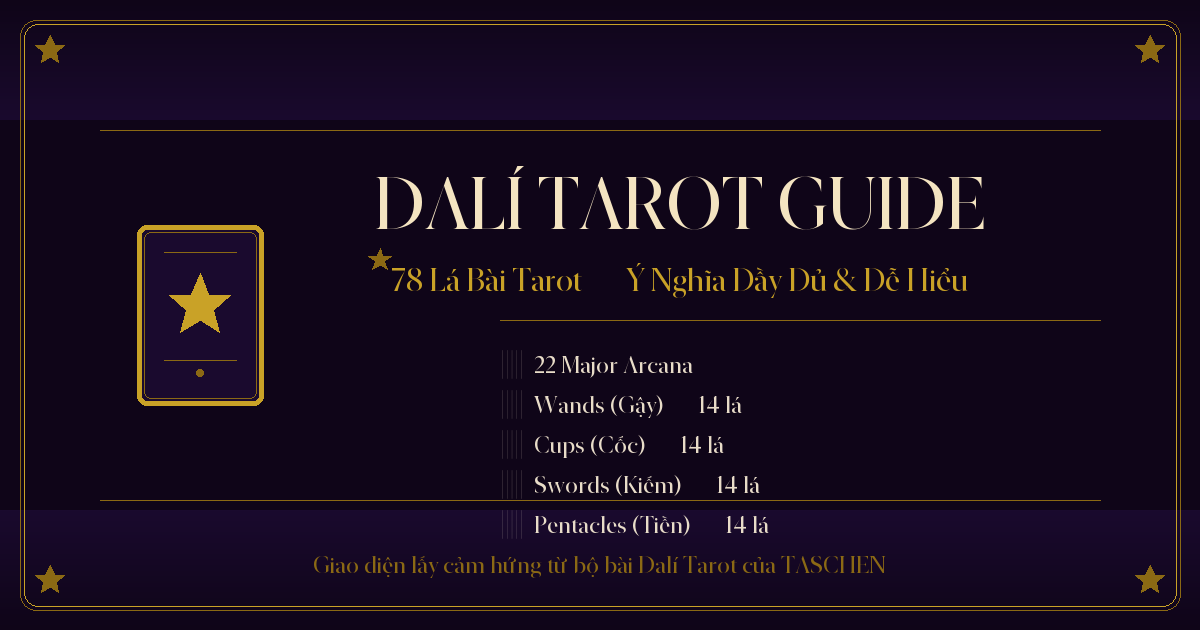
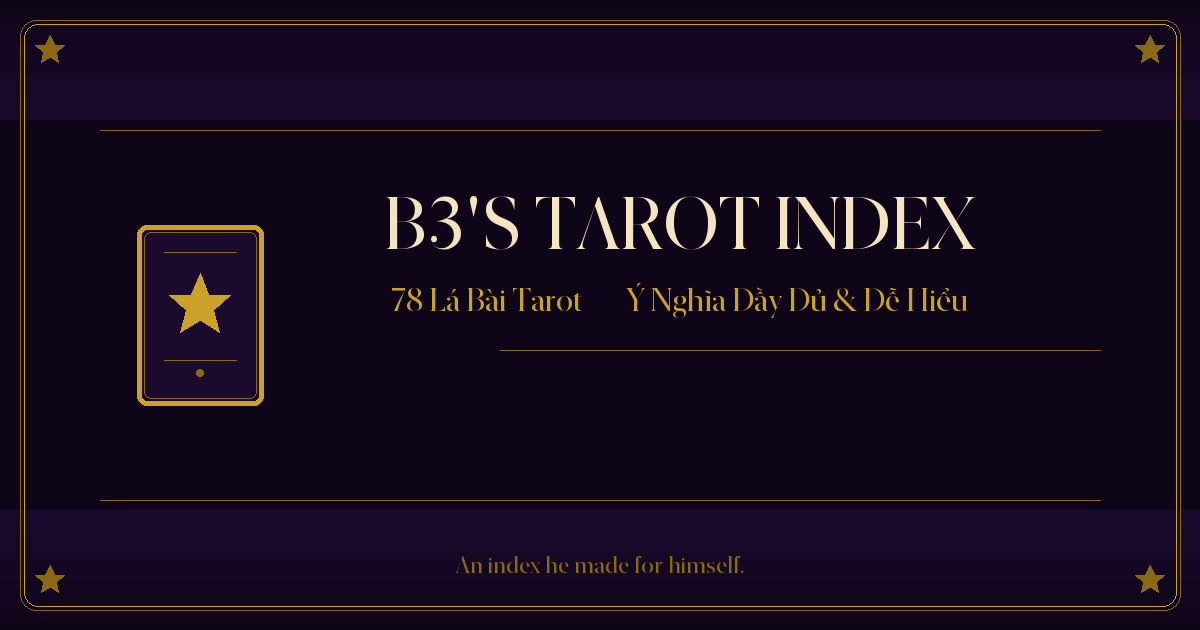
feat: rename app to B3's Tarot Index, clean up OG image
- Rename Dalí Tarot Guide → B3's Tarot Index everywhere (title, meta, headers, footer, structured data)
- Footer: B3's Tarot Index — An index he made for himself.
- Regenerate OG image without suit list, new branding
- All Tarot spellings verified correct (Tarot, not Tarrot)

diff --git a/index.html b/index.html
@@ -3,34 +3,34 @@
 <head>
 <meta charset="UTF-8">
 <meta name="viewport" content="width=device-width, initial-scale=1.0">
-<title>Tarot Card Meanings - 78 Lá Bài Tarot | Dalí Tarot Guide</title>
+<title>B3's Tarot Index - 78 Lá Bài Tarot</title>
 <meta name="description" content="Tra cứu ý nghĩa 78 lá bài Tarot đầy đủ, dễ hiểu. Bao gồm ý nghĩa xuôi, ngược, tình yêu, sự nghiệp và tinh thần. Giao diện lấy cảm hứng từ bộ bài Dalí Tarot của TASCHEN.">
 <meta name="keywords" content="tarot, ý nghĩa tarot, 78 lá bài tarot, dali tarot, tarot meanings, tarot guide, bói tarot, tarot love, tarot career">
-<meta name="author" content="Dalí Tarot Guide">
+<meta name="author" content="B3's Tarot Index">
 <meta name="theme-color" content="#1a0a2e">
 <meta name="apple-mobile-web-app-capable" content="yes">
 <meta name="apple-mobile-web-app-status-bar-style" content="black-translucent">
-<meta name="apple-mobile-web-app-title" content="Tarot Guide">
+<meta name="apple-mobile-web-app-title" content="B3's Tarot Index">
 
 <!-- Open Graph -->
 <meta property="og:type" content="website">
-<meta property="og:title" content="Tarot Card Meanings - 78 Lá Bài Tarot">
+<meta property="og:title" content="B3's Tarot Index - 78 Lá Bài Tarot">
 <meta property="og:description" content="Tra cứu ý nghĩa 78 lá bài Tarot đầy đủ, dễ hiểu. Xuôi, ngược, tình yêu, sự nghiệp và tinh thần.">
 <meta property="og:locale" content="vi_VN">
-<meta property="og:site_name" content="Dalí Tarot Guide">
+<meta property="og:site_name" content="B3's Tarot Index">
 
 <meta property="og:image" content="https://tarrot.hiem.co/og-image.png">
 <meta property="og:image:width" content="1200">
 <meta property="og:image:height" content="630">
-<meta property="og:image:alt" content="Dalí Tarot Guide — 78 Lá Bài Tarot Ý Nghĩa Đầy Đủ & Dễ Hiểu">
+<meta property="og:image:alt" content="B3's Tarot Index — 78 Lá Bài Tarot Ý Nghĩa Đầy Đủ & Dễ Hiểu">
 <meta property="og:url" content="https://tarrot.hiem.co/">
 
 <!-- Twitter Card -->
 <meta name="twitter:card" content="summary_large_image">
-<meta name="twitter:title" content="Tarot Card Meanings - 78 Lá Bài Tarot">
+<meta name="twitter:title" content="B3's Tarot Index - 78 Lá Bài Tarot">
 <meta name="twitter:description" content="Tra cứu ý nghĩa 78 lá bài Tarot đầy đủ, dễ hiểu.">
 <meta name="twitter:image" content="https://tarrot.hiem.co/og-image.png">
-<meta name="twitter:image:alt" content="Dalí Tarot Guide — 78 Lá Bài Tarot">
+<meta name="twitter:image:alt" content="B3's Tarot Index — 78 Lá Bài Tarot">
 
 <!-- Canonical -->
 <link rel="canonical" href="https://tarrot.hiem.co/">
@@ -187,7 +187,7 @@ header{text-align:center;padding:2rem 1rem 1.5rem;background:linear-gradient(180
 <div class="app-container">
 <header>
   <div class="header-inner">
-    <h1 class="header-title">Dalí Tarot Guide</h1>
+    <h1 class="header-title">B3's Tarot Index</h1>
     <p class="header-sub">78 Lá Bài Tarot — Ý Nghĩa Đầy Đủ & Dễ Hiểu</p>
   </div>
 </header>
@@ -214,7 +214,7 @@ header{text-align:center;padding:2rem 1rem 1.5rem;background:linear-gradient(180
 <div id="cardContainer"></div>
 
 <footer class="app-footer">
-  <p class="footer-text">Dalí Tarot Guide — Ý nghĩa bài Tarot cho người mới bắt đầu</p>
+  <p class="footer-text">B3's Tarot Index — An index he made for himself.</p>
 </footer>
 </div>
 
@@ -501,8 +501,8 @@ renderAll();
 {
   "@context": "https://schema.org",
   "@type": "WebApplication",
-  "name": "Dalí Tarot Guide",
-  "description": "Tra cứu ý nghĩa 78 lá bài Tarot đầy đủ, dễ hiểu theo phong cách Dalí Tarot.",
+  "name": "B3's Tarot Index",
+  "description": "Tra cứu ý nghĩa 78 lá bài Tarot đầy đủ, dễ hiểu.",
   "applicationCategory": "ReferenceApplication",
   "operatingSystem": "Any",
   "offers": {
@@ -513,7 +513,7 @@ renderAll();
   "inLanguage": "vi",
   "author": {
     "@type": "Organization",
-    "name": "Dalí Tarot Guide"
+    "name": "B3's Tarot Index"
   }
 }
 </script>
@@ -533,7 +533,7 @@ renderAll();
     {
       "@type": "ListItem",
       "position": 2,
-      "name": "Tarot Guide",
+      "name": "B3's Tarot Index",
       "item": "https://tarrot.hiem.co/"
     }
   ]

diff --git a/AGENTS.md b/AGENTS.md
@@ -1,4 +1,4 @@
-# AGENTS.md — Dalí Tarot Guide
+# AGENTS.md — B3's Tarot Index
 
 > This file is written for AI coding agents. It describes the actual state of the project as found in the working tree. Do not assume anything that is not documented here.
 
@@ -6,7 +6,7 @@
 
 ## Project Overview
 
-**Dalí Tarot Guide** is a static, single-page web application that lets users look up meanings for all 78 Tarot cards. The interface and content are in Vietnamese. The app is styled with a dark, gold-accented theme inspired by the Dalí Tarot deck from TASCHEN.
+**B3's Tarot Index** is a static, single-page web application that lets users look up meanings for all 78 Tarot cards. The interface and content are in Vietnamese. The app is styled with a dark, gold-accented theme inspired by the Dalí Tarot deck from TASCHEN.
 
 - **Primary language of content:** Vietnamese (`vi`)
 - **Primary language of code comments:** English
